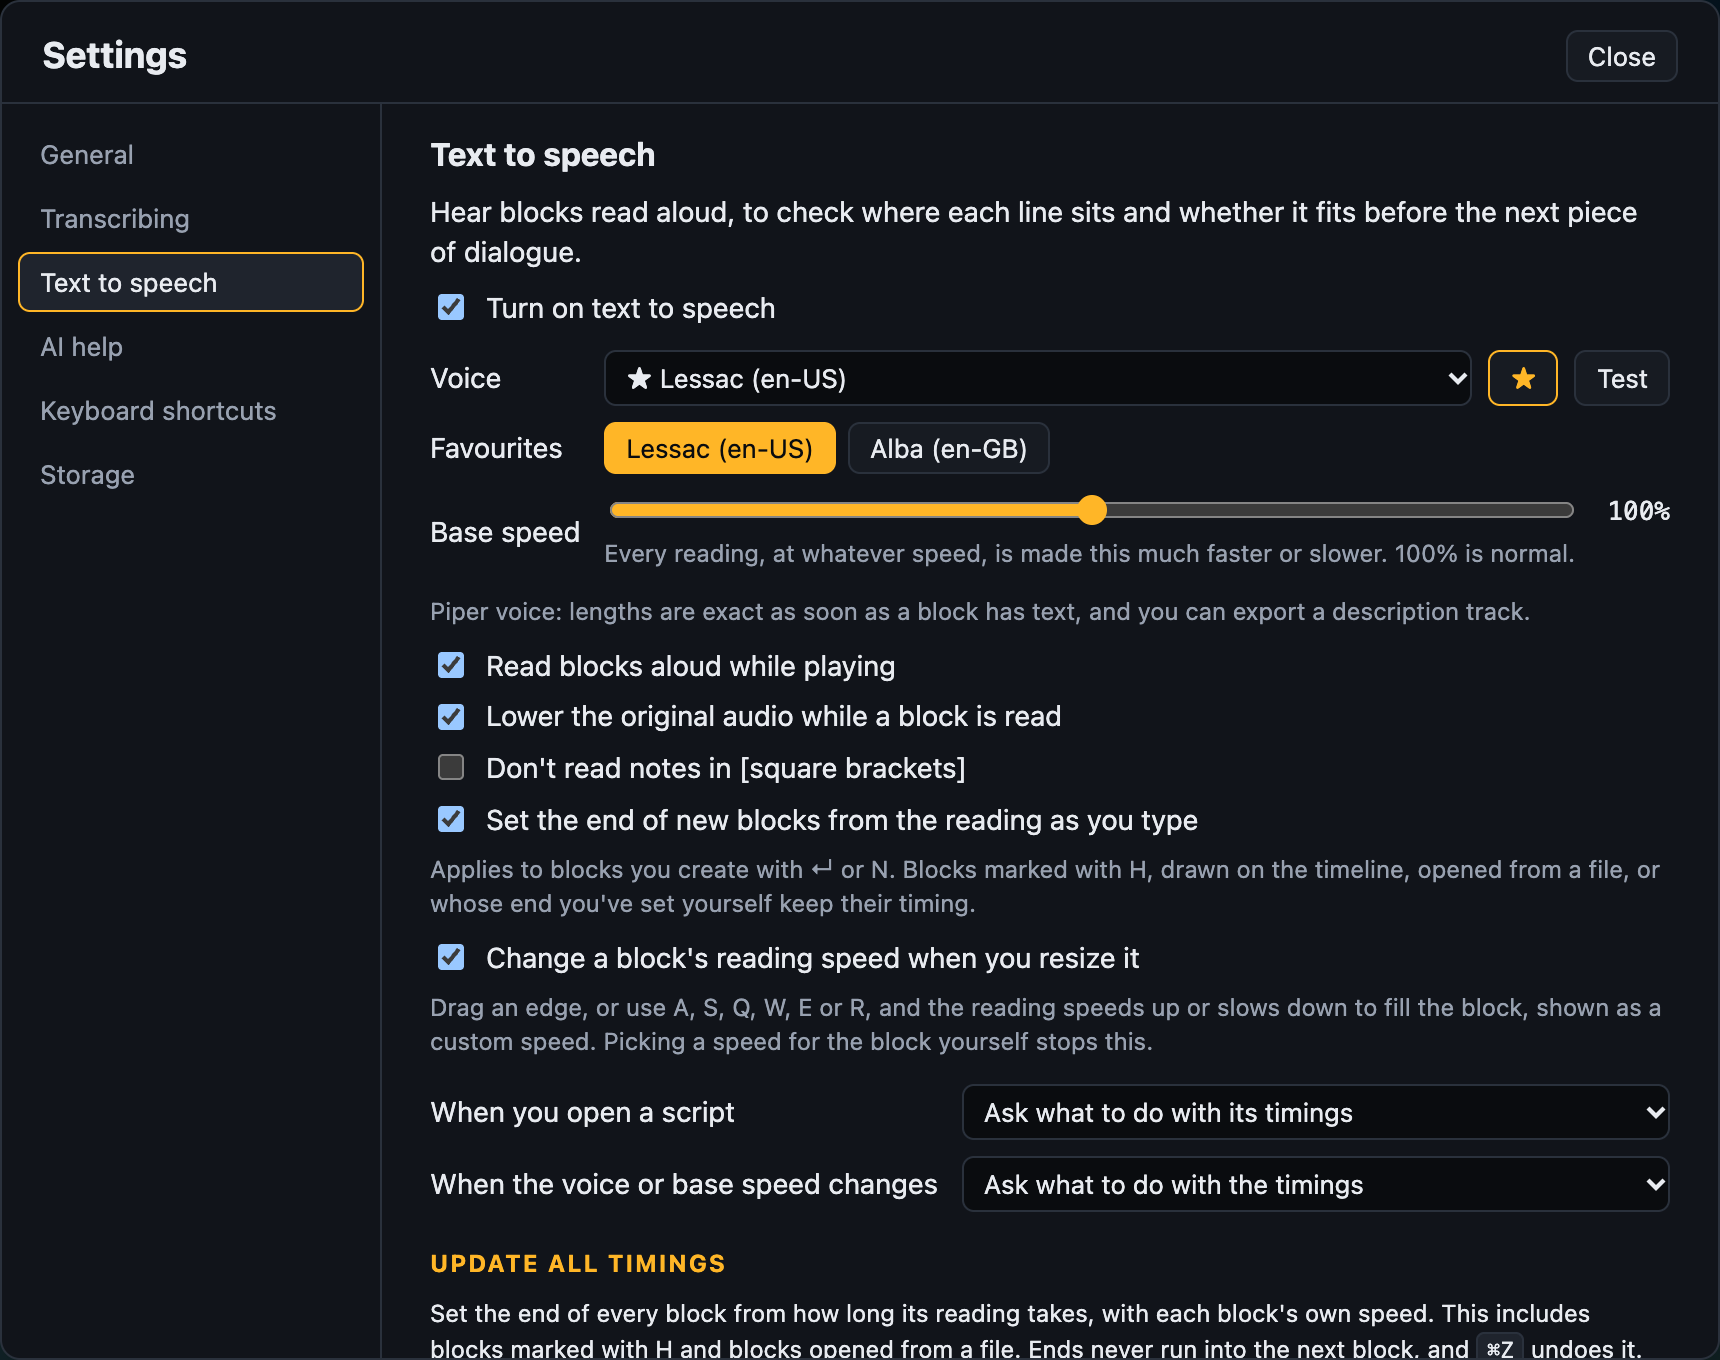
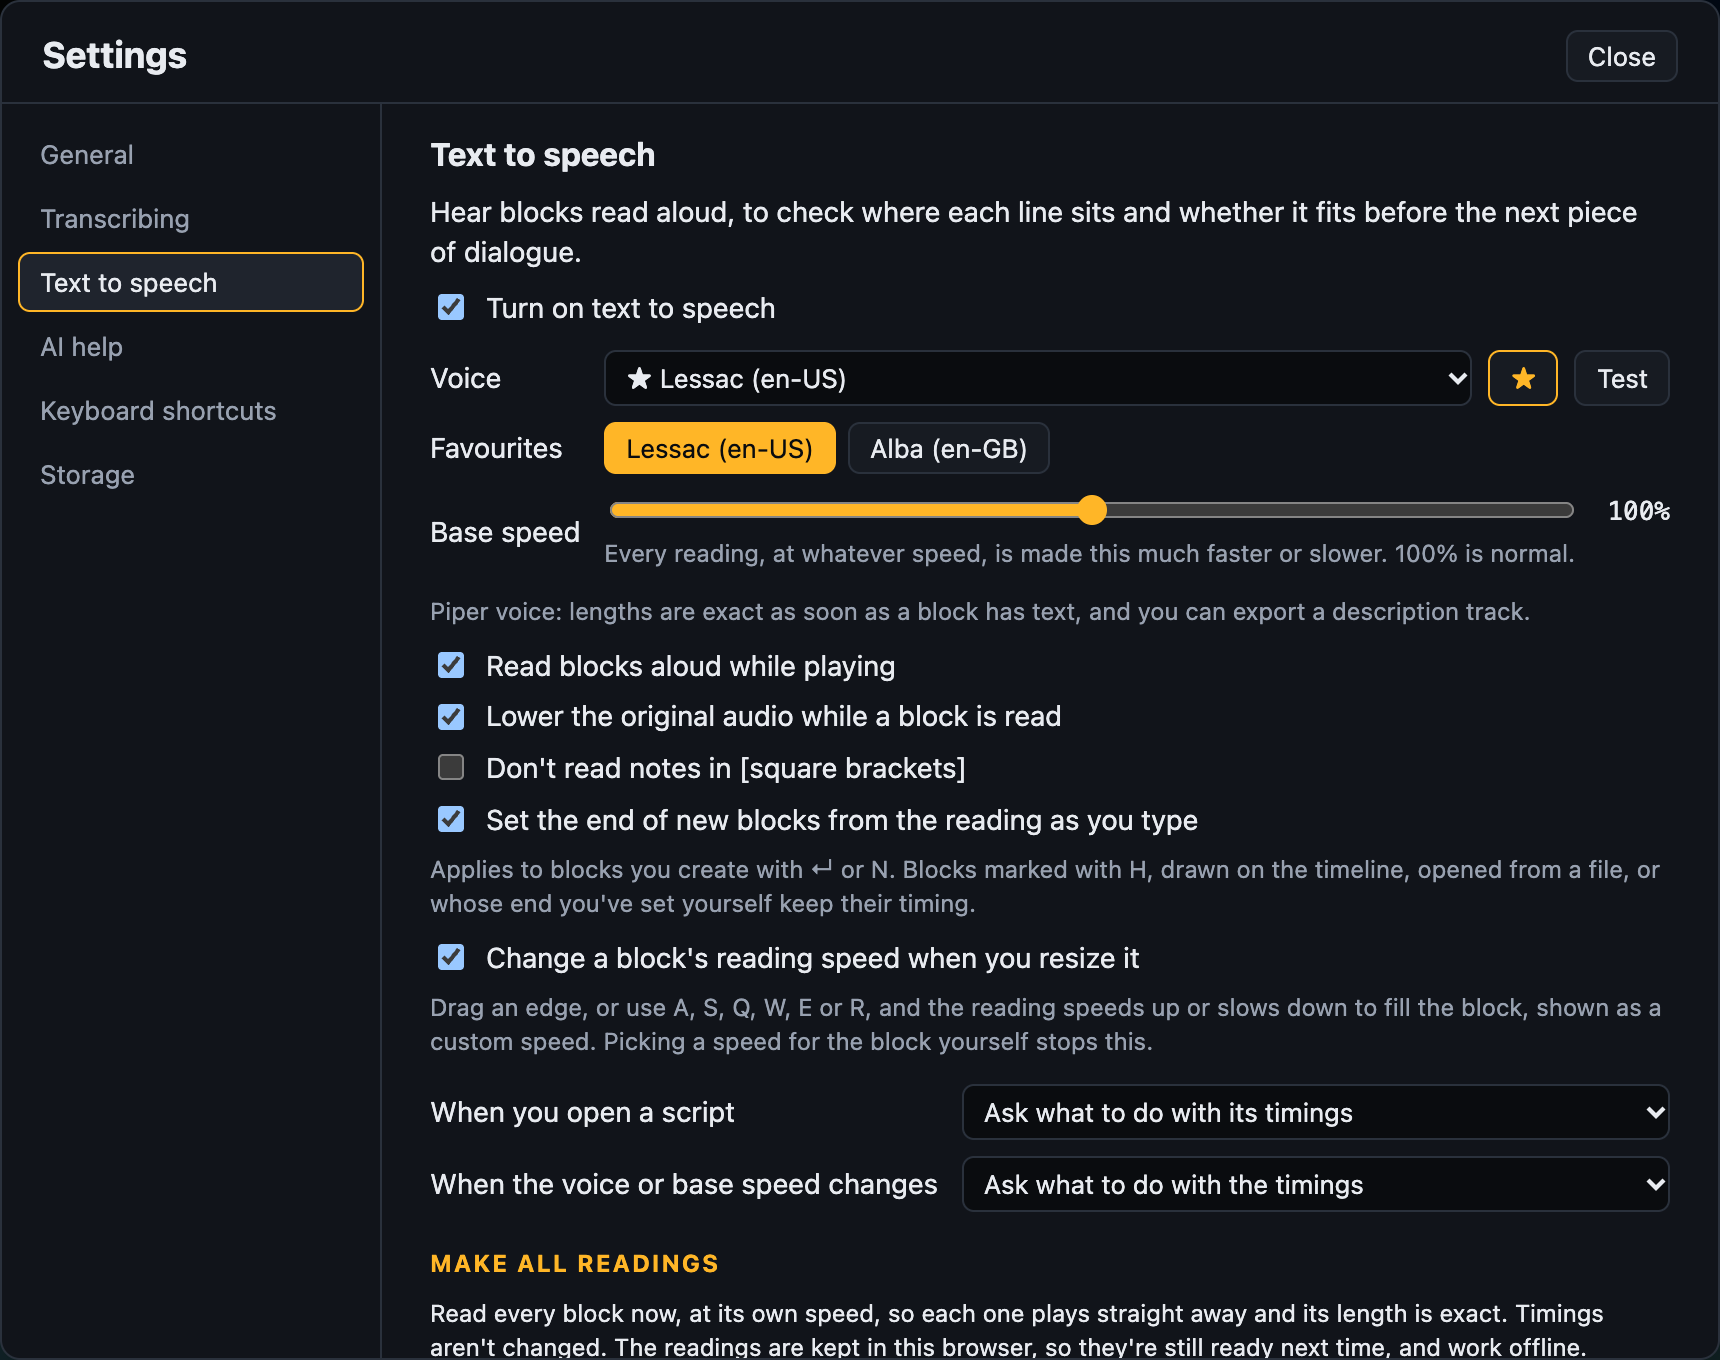
Add Make all readings to the text to speech settings
It reads every block ahead of time and keeps the readings, without changing any
timings.

Changed region(s): [[0.2465, 0.8956, 0.9552, 1.0]]

diff --git a/app/js/app.js b/app/js/app.js
@@ -1659,6 +1659,23 @@ async function updateAllTimings(ask = true) {
 }
 ttsAll.addEventListener('click', () => asJob(() => updateAllTimings()));
 
+// Make all readings: every block's reading, made now and kept, so each plays straight away.
+const ttsMakeAll = $('ttsMakeAll'), ttsMakeStatus = $('ttsMakeStatus');
+async function makeAllReadings() {
+  const blocks = S.cues.filter((c) => spoken(c.text));
+  if (!blocks.length) return (ttsMakeStatus.textContent = 'There are no blocks with text yet.');
+  const todo = blocks.filter((c) => !speechLength(said(c), c.speed).exact).length;
+  if (!todo) return report(ttsMakeStatus, `All ${blocks.length} readings are made already.`);
+  if (!(await measureAll(blocks, { btn: ttsMakeAll, bar: $('ttsMakeBar'), stop: $('ttsMakeStop'), status: ttsMakeStatus, job: 'Making readings' }))) {
+    return report(ttsMakeStatus, 'Make all readings stopped. The readings made so far are kept.');
+  }
+  const failed = blocks.filter((c) => !speechLength(said(c), c.speed).exact).length;
+  report(ttsMakeStatus, failed ? `Made ${todo - failed} of ${todo} readings. ${failed} couldn’t be made: try again in a moment.`
+    : `Made ${todo} reading${todo > 1 ? 's' : ''}. All ${blocks.length} are ready.`);
+}
+ttsMakeAll.addEventListener('click', () => asJob(() => makeAllReadings()));
+$('ttsMakeStop').addEventListener('click', () => { measuring = false; stopSpeech(); });
+
 // Fits Piper or Google readings to their blocks one block at a time, so the progress runs once from
 // the first block to the last. Each block is read at a speed guessed from its estimate,
 // then at better guesses from the readings so far, until the reading is as close to the
@@ -1845,7 +1862,7 @@ ttsExport.addEventListener('click', async () => {
 });
 ttsAllStop.addEventListener('click', () => { measuring = false; stopSpeech(); });
 // A job carries on when the settings close: it shows in the bottom bar.
-$('ttsDlg').addEventListener('close', () => { if (!jobActive) { ttsAllStatus.textContent = ''; ttsFitStatus.textContent = ''; } });
+$('ttsDlg').addEventListener('close', () => { if (!jobActive) { ttsAllStatus.textContent = ''; ttsFitStatus.textContent = ''; ttsMakeStatus.textContent = ''; } });
 
 // A block's own speed. Setting it to normal leaves the block without one.
 function setBlockSpeed(c, v) {

diff --git a/app/index.html b/app/index.html
@@ -538,7 +538,15 @@ docker compose up -d --build</code></pre>
           <option value="leave">Leave the timings as they are</option>
         </select>
       </div>
-      <p class="warnbox googlecost" hidden>You're using a Google Cloud voice, so updating all timings or fitting speeds to timings reads every block with Google again, apart from lines it has already read at the same voice and speed. That uses up your free characters, and may cost money once they run out.</p>
+      <p class="warnbox googlecost" hidden>You're using a Google Cloud voice, so making all readings, updating all timings or fitting speeds to timings reads every block with Google, apart from lines it has already read at the same voice and speed. That uses up your free characters, and may cost money once they run out.</p>
+      <h3>Make all readings</h3>
+      <p class="small">Read every block now, at its own speed, so each one plays straight away and its
+        length is exact. Timings aren't changed. The readings are kept in this browser, so they're still
+        ready next time, and work offline.</p>
+      <p class="updstatus"><button id="ttsMakeAll">Make all readings</button>
+        <progress id="ttsMakeBar" class="jobbar" max="1" value="0" hidden aria-label="Making readings"></progress>
+        <button id="ttsMakeStop" hidden>Stop</button> <span id="ttsMakeStatus" class="dim"></span></p>
+      <p id="ttsMakeNote" class="dim small"></p>
       <h3>Update all timings</h3>
       <p class="small">Set the end of every block from how long its reading takes, with each block's own
         speed. This includes blocks marked with H and blocks opened from a file. Ends never run into the

diff --git a/app/js/tts.js b/app/js/tts.js
@@ -1116,6 +1116,8 @@ function render(googleError = '') {
   $('ttsAllExactRow').hidden = piper;
   showGoogleCost();
   $('ttsExport').disabled = !piper;
+  $('ttsMakeAll').disabled = !piper;
+  $('ttsMakeNote').textContent = piper ? '' : 'Needs a Piper, Kokoro or Google voice: the browser\'s own voices can\'t be kept.';
   $('ttsExportNote').textContent = piper ? '' : 'Needs a Piper, Kokoro or Google voice: the browser\'s own voices can\'t be recorded.';
   $('ttsBody').classList.toggle('off', !tts.on);
   $('ttsBase').value = String(Math.round(tts.base * 100));

diff --git a/README.md b/README.md
@@ -394,6 +394,10 @@ click it to take it out.
   block. Once you set the end yourself, by dragging, `S`, `E` / `R` or typing in OUT,
   the block keeps it. Blocks marked with `H`, drawn on the timeline or opened from a file
   are never changed. You can turn this off in the text to speech settings.
+- **Make all readings:** with a Piper, Kokoro or Google voice, a button in the text to
+  speech settings reads every block now, at its own speed, without changing any timings.
+  Each block then plays straight away and its length is exact, and the readings are kept in
+  your browser for next time. While playing, Scribecue also reads the next two blocks ahead.
 - **Update all timings:** a button in the text to speech settings sets the end of every block
   with text from its reading, using each block's own speed. It asks first, because it also
   changes blocks marked with `H` or opened from a file, and `Ctrl/Cmd+Z` undoes it. Ends never run

diff --git a/GOOGLE-VOICES.md b/GOOGLE-VOICES.md
@@ -76,8 +76,8 @@ up:
 - **Speeds:** each speed a block is read at is a reading of its own. **Fit speeds to
   timings** tries two to four speeds for each block it changes.
 - **Changing the voice or base speed:** every line is read again the first time it's
-  needed. Changing the ends to match, opening a script and fitting its speeds or ends, and
-  **Update all timings** read every block straight away. Scribecue warns about this when
+  needed. Changing the ends to match, opening a script and fitting its speeds or ends,
+  **Make all readings** and **Update all timings** read every block straight away. Scribecue warns about this when
   it asks.
 - **Clearing them:** clearing the kept readings, in **Settings** under **Storage**, or
   removing all data, means lines are read and counted again.
